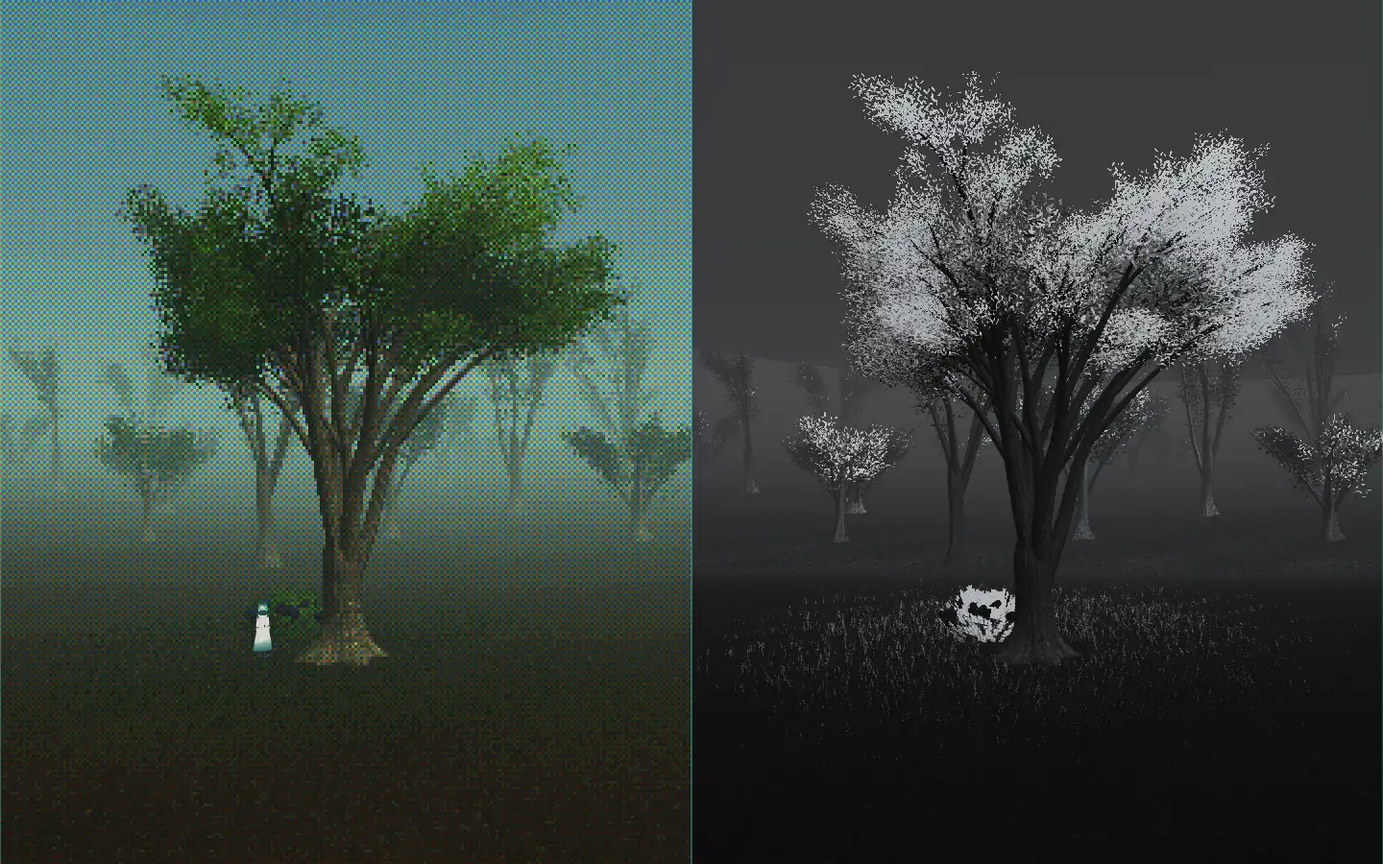
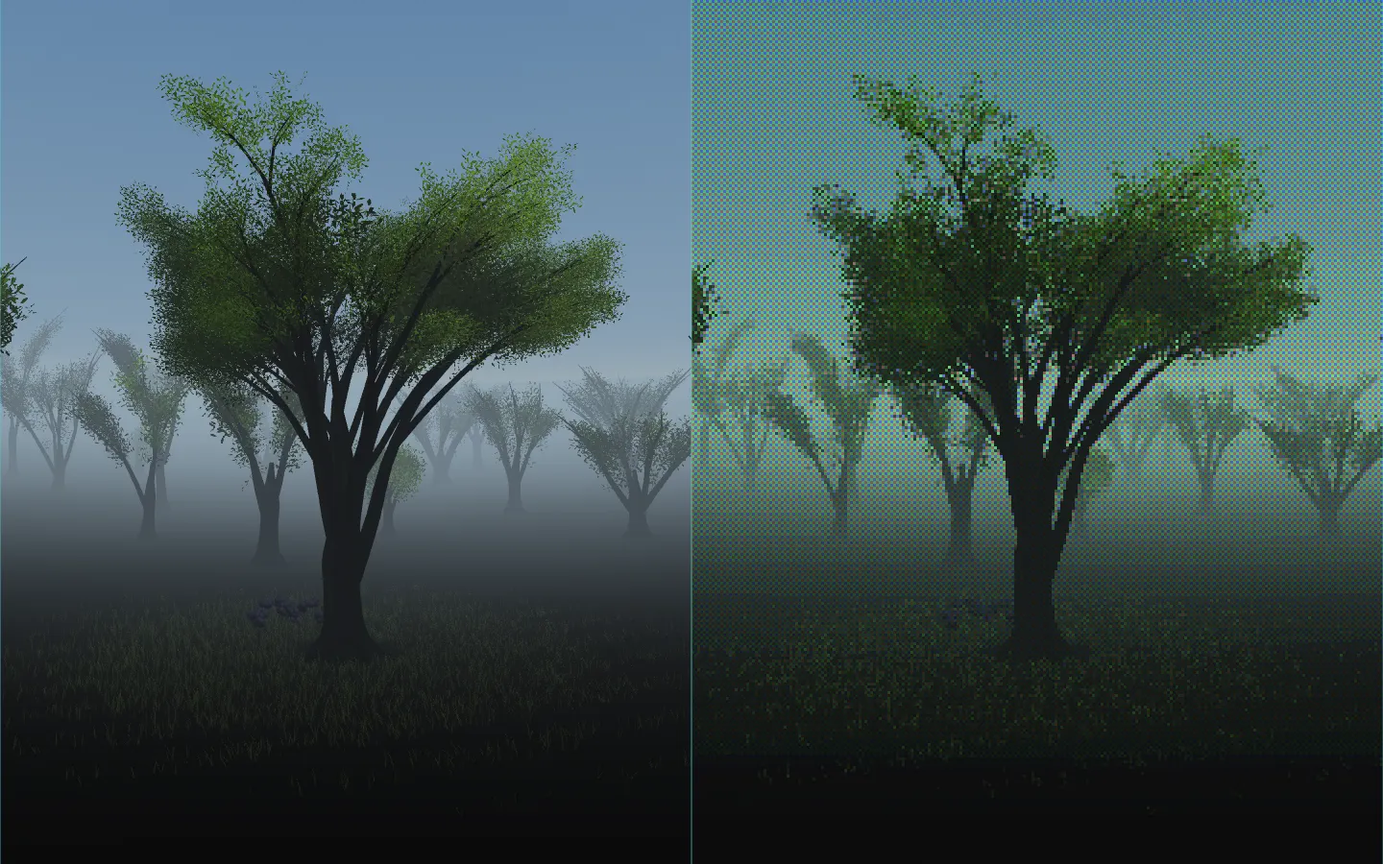
第4周 literature・leaf・keyaki・dream：leaf は目の前の一枚の接写から・人影をやめ副題をやさしく・計算の出典／literature の葉を強く・書誌を＋に／keyaki は人とカメラの二つから／dream は水際の光・しみこみ・押した所の反応・センサーの名札

diff --git a/x/27/app.js b/x/27/app.js
@@ -12,10 +12,10 @@ const [{ createAwai, injectCSS, lineMat, pointMat, fadeBy, AW, MOBILE, RM, TAU, 
 import * as THREE from "three";
 AMK.mods = Math.round(performance.now() - T0); injectCSS();
 const V3 = THREE.Vector3;
-const { qxEntry } = await import("./qx.js"); const GO = qxEntry({ label: "目の前の葉に触れる（葉が落ち、変化が広がる）", css: "#aw-ui .aw-mark{margin-left:40px!important}.aw-fold .fx{position:static!important;opacity:1!important;padding:0 0 10px!important;max-width:none!important}.aw-fold .fx summary{display:none}", onPress: () => { heroFall = 0; tapNode(nodeOf(goId)); } }); const _pv = new THREE.Vector3(); let goId = "tree";
+const { qxEntry } = await import("./qx.js"); const GO = qxEntry({ label: "目の前の葉に触れる（葉が落ち、変化が広がる）", css: "#aw-ui .aw-mark{margin-left:40px!important}.aw-fold .fx{position:static!important;opacity:1!important;padding:0 0 10px!important;max-width:none!important}.aw-fold .fx summary{display:none}", onPress: () => { document.body.classList.add("qx-started"); heroFall = 0; document.getElementById("qx-vig")?.classList.add("out"); tapNode(nodeOf(goId)); } }); const _pv = new THREE.Vector3(); let goId = "tree";
 
 const W = await createAwai({
-  title: "Qualia/leaf", sub: "一枚の葉から始まる入力の連なり", en: "One Leaf, Many Events", tex: P.tex, aoi: P.aoi, keyaki: P.keyaki, sprig: P.sprig, aoiAt: innerWidth < innerHeight * .8 ? [-.9, -1.5, -.2] : [1.4, -5.6, .1], seed: 2222, abs0: 0, deferBack: true,
+  title: "Qualia/leaf", sub: "一枚の葉が、次のだれかへ届く", en: "One Leaf, Many Events", tex: P.tex, aoi: P.aoi, keyaki: P.keyaki, sprig: P.sprig, aoiAt: innerWidth < innerHeight * .8 ? [-.9, -1.5, -.2] : [1.4, -5.6, .1], seed: 2222, abs0: 0, deferBack: true,
   rig: (a, y) => { const k = ss(0, 1, a), piv = new V3(0, 0, .4), back = lerp(6.4, 5.0, k), h = lerp(1.55, 1.7, k);   // 11-06 本人「俯瞰でなく主観の体験に」：抽象でも、その場に立つ人の目の高さ（約 1.6 m）のまま。一歩前へ出て、場の波を自分の足もとから受けとる   // 11-06 二版の後：抽象を一歩寄せる（主体が小さく、画面の下が空いていた）
     const pos = new V3(piv.x + Math.sin(y) * back, h, piv.z + Math.cos(y) * back), look = new V3(0, lerp(1.0, 0, k), lerp(-1.6, .2, k));
     if (innerWidth < innerHeight * .8) { const q = ss(.3, 1, a); pos.lerp(new V3(.1 + Math.sin(y) * 1.2, 1.75, 7.6), q); look.lerp(new V3(.1, .1, .4), q);   /* 縦長も目の高さのまま（真上から見下ろさない） */   /* 11-06 二版の後：主体を画面の中ほどへ下ろし、一歩寄せる（下半分が空いていた） */ }   // 縦長の画面の抽象は、真上に近い高い俯瞰（五つの主体が画面の内側に入る）
@@ -25,6 +25,7 @@ const W = await createAwai({
     "葉の表には落ちる前から菌や細菌がすみ、落ち葉は数か月から年の単位で分解されて土へ還る。ここでは時間を縮めた模式で、菌の音は実測音ではない合成音",
     "ミツバチの羽ばたき 約 230 回／秒：Altshuler ほか（PNAS 102, 2005）。歩く拍 毎分約 100 歩（中くらいの速さで歩くときの目安：Tudor-Locke ほか IJBNPA 16, 2019）",
     "考え方の系譜：ユクスキュル『生物から見た世界』（1934）・ウィーナー『サイバネティクス』（1948）・グラッセのスティグマジー（1959）・ハッチンス『Cognition in the Wild』（1995）。光る線は、ひとつの動きが次の入力になる順の模式",
+    "計算のかたち（右の線を上へなぞると出る式と流れ）の出典：環境に残した変化が次の行動の入力になる仕組み＝グラッセ「スティグマジー」（Insectes Sociaux 6: 41–80, 1959）、出力が入力へ戻る輪＝ウィーナー『サイバネティクス』（MIT Press, 1948）、道具と人のあいだで分かれて進む認知＝ハッチンス『Cognition in the Wild』（MIT Press, 1995）。式はこれらをもとに mitsulab が関係を書いた模式",
     "葉が落ちる時期：欅は秋に葉を黄から赤茶に変えて落とす落葉樹。画面の落ち方と時間は作品の設定（模式）",
     "質感：Poly Haven・ambientCG（CC0）。生き物の形：mitsulab の造形。碧の 3D・声・文：mitsulab",
   ],
@@ -46,7 +47,7 @@ if(accessAxis){accessAxis.tabIndex=0;accessAxis.setAttribute('role','slider');ac
 // 2026-11-09 第3周：最初の Tab・焦点は光るボタンへ
 setTimeout(() => { if (!GO.done) try { GO.el.focus({ preventScroll: true }); } catch (_) { } }, 50); scrollCaption.tabIndex = -1;
 
-{ const ax = W.ui.querySelector(".aw-axis"); if (ax) { const st = document.createElement("style"); st.textContent = ".aw-axis .aw-top,.aw-axis .aw-bot{opacity:0;transition:opacity .5s}.aw-axis.qx-on .aw-top,.aw-axis.qx-on .aw-bot,.aw-axis:focus-visible .aw-top,.aw-axis:focus-visible .aw-bot{opacity:1}"; document.head.appendChild(st); let tm; const on = () => { ax.classList.add("qx-on"); clearTimeout(tm); tm = setTimeout(() => ax.classList.remove("qx-on"), 2500); }; ax.addEventListener("pointerdown", on); ax.addEventListener("pointermove", e => { if (e.buttons) on(); }); } }   // 2026-11-09 第3周：目盛りの字は触れたときだけ
+{ const ax = W.ui.querySelector(".aw-axis"); if (ax) { ax.querySelector(".aw-top").textContent = "つながりの図"; ax.querySelector(".aw-bot").textContent = "いまの風景"; ax.title = "上へなぞると、同じつながりが図と式になる"; const st = document.createElement("style"); st.textContent = "body:not(.qx-started) .aw-axis{opacity:0!important;pointer-events:none!important}.aw-axis{transition:opacity .8s}.aw-axis .aw-top,.aw-axis .aw-bot{opacity:.9;transition:opacity .5s}.aw-axis.qx-on .aw-top,.aw-axis.qx-on .aw-bot,.aw-axis:focus-visible .aw-top,.aw-axis:focus-visible .aw-bot{opacity:1}"; document.head.appendChild(st); let tm; const on = () => { ax.classList.add("qx-on"); clearTimeout(tm); tm = setTimeout(() => ax.classList.remove("qx-on"), 2500); }; ax.addEventListener("pointerdown", on); ax.addEventListener("pointermove", e => { if (e.buttons) on(); }); } }   // 2026-11-09 第3周：目盛りの字は触れたときだけ
 const snd = S.createSound(W.sndBtn);
 W.onFirstInput(() => snd.start());
 // 2026-11-07: existing credits fold also offers an optional next question.
@@ -162,7 +163,7 @@ const chainM = new THREE.MeshBasicMaterial({ color: 0xffe2a8, transparent: true,
 let chainMesh = null, chainCurve = null, chainU = 0, chainV = 0;
 const buildChain = () => { chainCurve = new THREE.CatmullRomCurve3(chainPts(), false, "centripetal"); chainMesh = new THREE.Mesh(new THREE.TubeGeometry(chainCurve, 90, MOBILE ? .016 : .012, 5, false), chainM); W.add(chainMesh); };
 const chainDotM = pointMat(0xfff4d8, MOBILE ? .3 : .22, 1); chainDotM.opacity = 0; const chainDot = new THREE.Points(new THREE.BufferGeometry().setFromPoints([new V3()]), chainDotM); chainDot.visible = false; W.add(chainDot);
-const heroLeaf = PR.keyakiLeaf(.09); W.add(heroLeaf); const HERO0 = new V3(innerWidth < innerHeight * .8 ? .05 : .16, 1.45, 6.32); heroLeaf.position.copy(HERO0); let heroFall = -1;
+const heroLeaf = PR.keyakiLeaf(.09); const HS = innerWidth < innerHeight * .8 ? 2.3 : 2.9, _fw = new THREE.Vector3();   /* 2026-11-10 第4周：はじめは目の前の一枚を視界いっぱいに（literature の並木と分ける） */ W.add(heroLeaf); const HERO0 = new V3(innerWidth < innerHeight * .8 ? .05 : .16, 1.45, 6.32); heroLeaf.position.copy(HERO0); let heroFall = -1;
 const LEAF = { tit: "シジュウカラには、落ちる葉は動く影。目が向く。", hum: "人には、葉は十一月の色。黄から赤茶へ移る、季節のことば。", fungi: "菌と細菌には、葉は食べもの。落ちる前から、葉の表にすんでいた。" };
 const leafSaid = new Set(); let saidSens = false;
 // ノードの印：足もとの輪・立ちのぼる線・名札
@@ -250,7 +251,7 @@ function dropLeaf() { const l = PR.keyakiLeaf(.07); scene.add(l); falling = { l,
 
 // はじめと、降りるとき
 /* 2026-11-09 第3周：はじめは目の前の葉だけ（押すまで動かさない） */   // はじめに一度、ミツバチがふるまい、波が渡るのを見せる（音は触れるまで鳴らない）
-setTimeout(() => { W.say("目の前の一枚の葉に触れてみよう。落ちたあと、だれの何になる？"); setTimeout(() => { W.say("右の線を上へなぞると、同じつながりが式と流れになる。"); W.ui.querySelector(".aw-axis")?.classList.add("hint"); }, 7000); }, 900);
+setTimeout(() => { W.say("目の前の一枚の葉に触れてみよう。落ちたあと、だれの何になる？"); const axHint = () => { if (!GO.done) return setTimeout(axHint, 3000); document.body.classList.add("qx-started"); W.say("右の線を上へなぞると、同じつながりが図と式になる。"); W.ui.querySelector(".aw-axis")?.classList.add("hint"); }; setTimeout(axHint, 7000); }, 900);
 let saidDown = false, saidGround = false, wentUp = false;
 W.onAbs(a => {
   fx.style.opacity = ss(.35, .7, a).toFixed(3);
@@ -263,7 +264,7 @@ W.onAbs(a => {
 const tmpC = new THREE.Color();
 W.onFrame((dt, t, a) => {
   if (heroFall >= 0) { if (!chainMesh) buildChain(); chainV = Math.min(1, chainV + dt * .8); const v = (1 - ss(.25, .55, a)) * chainV; chainM.opacity = .5 * v; chainMesh.visible = v > .01; chainU = (chainU + dt * (RM ? 0 : .2)) % 1; chainDot.position.copy(chainCurve.getPointAt(chainU)); chainDotM.opacity = v; chainDot.visible = v > .01; }   // compute から：入力の連鎖の光る線
-  { const hv = RM ? 0 : 1; if (heroFall < 0) { heroLeaf.position.copy(HERO0).add(new V3(Math.sin(t * .7) * .012 * hv, Math.sin(t * .9) * .01 * hv, 0)); heroLeaf.lookAt(camera.position); heroLeaf.rotateX(Math.sin(t * .9) * .2 * hv); heroLeaf.rotateZ(.5 + Math.sin(t * .6) * .15 * hv); heroLeaf.material.emissive?.setRGB(.5, .3, .05); } else { heroFall += dt; const u = Math.min(1, heroFall / 2.2); heroLeaf.position.set(HERO0.x + Math.sin(heroFall * 3) * .08 * (1 - u), lerp(HERO0.y, .02, u * u), HERO0.z - u * .9); heroLeaf.rotation.set(-1.2 + Math.cos(heroFall * 3) * .8 * (1 - u), heroFall, 0); } heroLeaf.visible = a < .2; }
+  { const hv = RM ? 0 : 1; if (heroFall < 0) { camera.getWorldDirection(_fw); HERO0.copy(camera.position).addScaledVector(_fw, .34); HERO0.y -= .015; heroLeaf.scale.setScalar(HS); heroLeaf.position.copy(HERO0).add(new V3(Math.sin(t * .7) * .012 * hv, Math.sin(t * .9) * .01 * hv, 0)); heroLeaf.lookAt(camera.position); heroLeaf.rotateX(Math.sin(t * .9) * .2 * hv); heroLeaf.rotateZ(.5 + Math.sin(t * .6) * .15 * hv); heroLeaf.material.emissive?.setRGB(.5, .3, .05); } else { heroFall += dt; const u = Math.min(1, heroFall / 2.2); heroLeaf.scale.setScalar(lerp(HS, 1, Math.min(1, u * 2.5))); heroLeaf.position.set(HERO0.x + Math.sin(heroFall * 3) * .08 * (1 - u), lerp(HERO0.y, .02, u * u), HERO0.z - u * .9); heroLeaf.rotation.set(-1.2 + Math.cos(heroFall * 3) * .8 * (1 - u), heroFall, 0); } heroLeaf.visible = a < .2; }
   if (!GO.done) { goId = "tree"; _pv.copy(heroLeaf.position).project(camera); GO.place(_pv.z < 1 && Math.abs(_pv.x) < .95 && Math.abs(_pv.y) < .95 ? (_pv.x + 1) / 2 * innerWidth : null, (1 - _pv.y) / 2 * innerHeight); }
   ripU.uT.value = t;
   { const bi = Math.floor(t / .6); if (bi !== beatI) { beatI = bi; const fade = 1 - ss(.6, 1.3, t - lastAct); if (fade > .01 && snd.on) snd.wood(snd.note(-5 + (bi % 2)), { gain: .04 * fade, decay: .35, wet: .3 }); } }   // 静まったら 2 拍で消える   // 連なりの間、足音の拍（0.6 秒）を下で弱く
@@ -285,10 +286,10 @@ W.onFrame((dt, t, a) => {
   hop = Math.max(0, hop - dt * 1.6); tit.position.y = Math.sin(Math.min(1, 1 - hop) * Math.PI) * (hop > 0 ? .06 : 0); tit.userData.animate?.(t, false);
   beeKick = Math.max(0, beeKick - dt * .8); const hv = RM ? 0 : 1;
   beeGlow.position.copy(bee.position); beeGlowM.opacity = (.6 + .35 * Math.sin(t * 9)) * (1 - ss(.3, .7, a)) + beeKick * .6;
-  { const me = ss(.35, .6, a); person.visible = me < .98; person.userData.mat && (person.userData.mat.opacity = .85 * (1 - me)); person.userData.mat && (person.userData.mat.transparent = true); }   // 抽象では、見ている自分＝人の目から受けとる（自分の体の線は消える）
+  { const me = ss(.35, .6, a); person.visible = false; person.userData.mat && (person.userData.mat.opacity = .85 * (1 - me)); person.userData.mat && (person.userData.mat.transparent = true); }   // 抽象では、見ている自分＝人の目から受けとる（自分の体の線は消える）
   bee.position.copy(beeHome).add(new V3(Math.sin(t * .9) * (.05 + beeKick * .25) * hv, .045 + Math.sin(t * 1.7) * .015 * hv + beeKick * .12, Math.cos(t * .7) * (.04 + beeKick * .2) * hv)); bee.rotation.y = Math.sin(t * .5) * .8; bee.userData.state = "fly"; bee.userData.animate?.(t, "hover");
   if (steps > 0) { steps = Math.max(0, steps - dt); person.userData.walk((1.2 - steps) / .6, 1); } else person.userData.walk(0, 0);
-  person.userData.mat.opacity = lerp(.32, .6, ss(.08, .5, a));   // 具体では墨の線、抽象では光の線
+     // 具体では墨の線、抽象では光の線
   person.userData.mat.color.copy(tmpC.set(0xd9c3a5).lerp(new THREE.Color(0xe9d2c2), ss(.15, .6, a)));   // 具体では墨の線の人、抽象では光の線
   // 落ちる葉
   if (falling) { const f = falling; f.t += dt; const u = Math.min(1, f.t / 5); f.l.position.set(f.x + Math.sin(f.t * 3) * .25 * (1 - u), lerp(4.5, .02, Math.pow(u, 1.1)), f.z + Math.cos(f.t * 1.7) * .15); f.l.rotation.set(-1.3 + Math.cos(f.t * 3) * .9 * (1 - u), f.t, 0); if (u >= 1) { f.l.rotation.set(-Math.PI / 2, f.t, 0); falling = null; } }

diff --git a/x/29/index.html b/x/29/index.html
@@ -27,6 +27,7 @@ html,body{margin:0;height:100%;background:var(--bg);color:var(--ink);overflow:hi
 <script type="importmap">{"imports":{"three":"./vendor/three/build/three.module.js","three/addons/":"./vendor/three/examples/jsm/","@pixiv/three-vrm":"./vendor/three-vrm/three-vrm.module.min.js"}}</script>
 <link rel="modulepreload" href="./vendor/three/build/three.module.js"><link rel="modulepreload" href="./vendor/three/examples/jsm/controls/OrbitControls.js"><link rel="modulepreload" href="./keyaki.js"><link rel="modulepreload" href="./kit/index.js"><link rel="modulepreload" href="./kit/atmosphere.js"><link rel="modulepreload" href="./kit/vegetation.js"><link rel="modulepreload" href="./kit/layers.js"><link rel="modulepreload" href="./kit/aoi.js"><link rel="modulepreload" href="./kit/aoi_motion.js"><link rel="modulepreload" href="./kit/aoi_mocap.js"><link rel="modulepreload" href="./kit/aoi_robe.js"><link rel="modulepreload" href="./vendor/three/examples/jsm/utils/BufferGeometryUtils.js">
 <style id="question-route-style">.q-route{margin:12px 0;padding:12px 0;border-top:1px solid currentColor;font:13px/1.8 Inter,"Hiragino Sans",sans-serif;text-align:left}.q-route h2,.q-route h3{margin:0 0 8px;font-size:14px;font-weight:500;line-height:1.5}.q-route p{margin:4px 0 8px}.q-route a,.q-route button{min-height:44px;display:flex;align-items:center;color:inherit;background:none;border:0;border-bottom:1px solid #9ed9e64d;padding:4px 0;font:inherit;text-align:left;cursor:pointer;text-decoration:none;width:100%;box-sizing:border-box}.q-route a:focus-visible,.q-route button:focus-visible{outline:2px solid #b9f5ff;outline-offset:3px}.q-route small{display:block;opacity:.8}</style><style>.q-tree-route{position:fixed;z-index:20;right:max(12px,env(safe-area-inset-right));top:calc(64px + env(safe-area-inset-top));color:#dae8ee;max-width:min(340px,calc(100vw - 24px));font:13px/1.8 sans-serif}.q-tree-route>summary{width:max-content;min-width:44px;height:44px;padding:0 12px;box-sizing:border-box;display:grid;place-items:center;list-style:none;cursor:pointer;background:#08111ac9;border-radius:50%;margin-left:auto;border:1px solid #a8f2f63d}.q-tree-route>summary::-webkit-details-marker{display:none}.q-evidence>summary{min-height:44px;display:flex;align-items:center;cursor:pointer;border-top:1px solid #9ed9e64d}.q-evidence a{font-size:12px}.q-tree-route[open] .q-route{background:#08111aed;border:1px solid #a8f2f633;border-radius:8px;padding:16px;max-height:calc(100dvh - 164px);overflow:auto;margin:6px 0 0}.q-tree-route>summary:focus-visible{outline:2px solid #b9f5ff;outline-offset:3px}</style><style id="zoom-layout-20261107">
+#who:not(.all) button:not([data-k="0"]):not([data-k="4"]){display:none}#journey[data-stage="observe"] #journey-step{display:none}
 /* Keep captions and every selector in flow when text or the viewport grows narrow. */
 body{display:grid;grid-template-rows:minmax(128px,1fr) auto auto auto;justify-items:center;overflow-y:auto}
 #tags{grid-row:1}
@@ -62,12 +63,12 @@ body{display:grid;grid-template-rows:minmax(128px,1fr) auto auto auto;justify-it
 <div id="tags"></div><div id="journey" data-stage="observe"><p id="journey-step">まず見る</p><button id="journey-next" type="button">生き物の目と並べる →</button><details id="question-route" class="q-tree-route"><summary aria-label="身近な木への問いと根拠">＋ 問いと根拠</summary><section class="q-route"><h2>画面を閉じて、身近な木へ。</h2><ol class="q-return"><li>まず、目に入るものを一つ。葉・幹・根もとのどこでしょう。</li><li>立つ位置を少し変えて、光と影を見てみる。</li><li>最初の位置でもう一度。気になったところは変わりましたか。</li></ol><p>見えたことと、想像したことは分けておきましょう。色だけでは、その木の紫外の反射や土の水分まではわかりません。</p><button id="journey-restart" type="button">画面の木でもう一度</button><details class="q-evidence"><summary>見え方の根拠と限界</summary><p>色・光・数値は、人に見えるように置き換えた模式です。生き物の主観や、この場所の紫外画像・土壌水分を実測したものではありません。</p><p>ハチの受容体：紫外・青・緑を手がかりにしています。<a href="https://pubmed.ncbi.nlm.nih.gov/1573568/" target="_blank" rel="noopener">Peitschほか（1992）↗</a></p><p>鳥の紫外感度は種で異なります。ここで描くヒヨドリの型は未確認です。<a href="https://pmc.ncbi.nlm.nih.gov/articles/PMC3637589/" target="_blank" rel="noopener">Ödeen・Håstad（2013）↗</a></p><p>紫外の描き方：ミツバチは 緑→赤・青→緑・紫外→青 にずらし、ぼかしは個眼の間の角度 約 1〜2 度の模式です。鳥は紫外を紫で重ねた模式で、紫外写真ではありません。</p><p>土のしめり気の数は、お話の例です。</p><p>カメラの格子はベイヤー配列の模式、近赤外の明るさは葉の反射の測定（Gates ほか 1965, Applied Optics 4(1):11–20）を手がかりにした模式です。</p><p>土の水分を誘電率から推定する方法があります。画面の深さと数値は作者の設定で、深いほど必ず湿るとは限りません。<a href="https://doi.org/10.1029/WR016i003p00574" target="_blank" rel="noopener">Toppほか（1980）↗</a></p></details><a href="https://mitsulab.jp/#apps">作品の一覧へ →</a></section></details></div>
 <p id="cap" aria-live="polite"></p>
 <nav id="who" aria-label="補助操作：受けとり方を並べて比較。押すたび追加・解除">
-  <button data-k="0" aria-pressed="false"><svg viewBox="0 0 24 24"><circle cx="12" cy="7" r="3"/><path d="M6 21c0-4 2.7-7 6-7s6 3 6 7"/></svg>人</button>
+  <button data-k="0" aria-pressed="true"><svg viewBox="0 0 24 24"><circle cx="12" cy="7" r="3"/><path d="M6 21c0-4 2.7-7 6-7s6 3 6 7"/></svg>人</button>
   <button data-k="1" aria-pressed="false"><svg viewBox="0 0 24 24"><ellipse cx="12" cy="14" rx="3.2" ry="5"/><path d="M9 11c-4-3-6-1-5 1s4 1 5 0M15 11c4-3 6-1 5 1s-4 1-5 0M10.5 5.5 9 3M13.5 5.5 15 3"/></svg>ミツバチ</button>
   <button data-k="2" aria-pressed="false"><svg viewBox="0 0 24 24"><path d="M4 14c3-5 9-7 13-5l3-1-1.5 3c0 4-4 7-9 7H4l3-2z"/><circle cx="15.5" cy="10.5" r=".6"/></svg>ヒヨドリ</button>
   <button data-k="3" aria-pressed="false"><svg viewBox="0 0 24 24"><rect x="9" y="3" width="6" height="8" rx="1"/><path d="M10.5 11v9M13.5 11v9M4 15h16"/></svg>センサー</button>
   <button data-k="4" aria-pressed="true"><svg viewBox="0 0 24 24"><rect x="3" y="7" width="18" height="12" rx="2"/><circle cx="12" cy="13" r="3.5"/><path d="M8 7l1.5-3h5L16 7"/></svg>カメラ</button>
-  <button data-k="5" aria-pressed="true"><svg viewBox="0 0 24 24"><rect x="3" y="7" width="18" height="12" rx="2"/><circle cx="12" cy="13" r="3.5"/><path d="M12 2v3M7 3.5l1 2M17 3.5l-1 2"/></svg>近赤外</button>
+  <button data-k="5" aria-pressed="false"><svg viewBox="0 0 24 24"><rect x="3" y="7" width="18" height="12" rx="2"/><circle cx="12" cy="13" r="3.5"/><path d="M12 2v3M7 3.5l1 2M17 3.5l-1 2"/></svg>近赤外</button>
 </nav>
 <script type="module">
 import * as THREE from "three";
@@ -204,19 +205,19 @@ function sizeRT() { renderer.getDrawingBufferSize(dbs); if (rt.width !== dbs.x |
 
 // ---- 主体・碧の字幕（事実は 資料/出典.md）
 const WHO = [
-  { n: "人", m: "人の目で見た色", say: "まずは、この一本を。葉・幹・根もと、どこに目が向きますか。画面をなぞると、見る位置を変えられます。" },
-  { n: "ミツバチ", m: "人には見えない色を、\n見える色に置きかえたよ", say: "ミツバチは紫外・青・緑で受けとり、赤は届きにくいとされます。その三つを、人に見える青・緑・赤へずらした模式です。ぼかしは目の粗さ（個眼の間の角度 約 1〜2 度）の模式です。" },
-  { n: "ヒヨドリ", m: "鳥に見える紫外を、\n見える色に置きかえたよ", say: "鳥の色覚には、人にはない紫外から紫の感度をもつ型があります。この画面は鳥の色覚研究を手がかりにした模式で、ヒヨドリの感度を測ったものではありません。紫の重ね合わせも紫外写真ではなく、色の受けとり方を考えるための表現です。鳥の型の分布は Ödeen & Håstad 2013（BMC Evolutionary Biology 13:36）にまとめられていますが、ヒヨドリの型はまだ確かめられていません。" },
-  { n: "土のセンサー", m: "土の水分（%）\n値は模式", say: "センサーは画を記録しません。根もと近くと離れた所の 2 か所に差し、土の水分を、深さごとに体積の % で記録するだけです（値は模式）。薄い線は木の位置の目安です。" },
-  { n: "カメラ", m: "画素と色の並び\n機械が記録する", say: "カメラは画を、画素の格子として記録します。一つの画素は赤・緑・青のどれか一色だけを記録し、あとで計算で色をそろえます（ベイヤー配列の模式）。人に見える細部の一部は、格子の外に落ちます。" },
-  { n: "近赤外", m: "人に見えない光\n値は模式", say: "近赤外は人の目では見えない光です。葉は近赤外を強く返すので、近赤外のカメラには樹冠が明るく、空は暗く記録されます（模式）。葉が赤の先で急に明るくなる境目はレッドエッジと呼ばれます（Gates ほか 1965, Applied Optics 4(1):11–20 の葉の反射の測定）。" } ];
-const SAY_FIRST = "カメラが記録した同じ欅。左は画素の格子、右は人に見えない近赤外の光。次は、生き物の目と並べてみよう。";
-const INIT = [4, 5];
+  { n: "人", m: "人の目の色", say: "まずは、この一本を。葉・幹・根もと、どこに目が向きますか。画面をなぞると、見る位置を変えられます。" },
+  { n: "ミツバチ", m: "紫外が見える\n色は置きかえ", say: "ミツバチは紫外・青・緑で受けとります（Peitsch ほか 1992, J. Comp. Physiol. A 170）。それを人に見える青・緑・赤へずらし、目の粗さ（Land 1997, Annu. Rev. Entomol. 42）をぼかしで表した模式です。" },
+  { n: "ヒヨドリ", m: "紫外が見える型\n色は置きかえ", say: "鳥には、人にない紫外の感度をもつ型があります（Ödeen & Håstad 2013, BMC Evol. Biol. 13:36）。ヒヨドリの型はまだ確かめられていないので、これは模式です。" },
+  { n: "土のセンサー", m: "土の水分\n値は模式", say: "センサーは画を記録しません。根もと近くと離れた所で、土の水分を深さごとに記録するだけです（値は模式）。" },
+  { n: "カメラ", m: "画素の格子", say: "カメラの一つの画素は、赤・緑・青のどれか一色だけを記録し、あとで計算で色をそろえます（ベイヤー配列の模式）。細部の一部は格子の外に落ちます。" },
+  { n: "近赤外", m: "見えない光\n値は模式", say: "葉は人に見えない近赤外の光を強く返すので、近赤外のカメラには樹冠が明るく写ります（Gates ほか 1965, Applied Optics 4:11–20）。値は模式です。" } ];
+const SAY_FIRST = "左は人の目、右はカメラの記録。同じ一本の欅だよ。";
+const INIT = [0, 4];   /* 2026-11-10 第4周：はじめは二つだけ（人とカメラ）。ほかの目は次の一押しで出る */
 const SAY_MANY = "帯ごとに、同じ一本のケヤキを、それぞれの受けとり方で。あなたの帯も、その一つ。";
 const SAY_END = "別の手がかりに触れたあと、人の目でもう一度。同じ木の、どこが気になりますか。";
 const SAY_REVISIT = "人の目に戻りました。最初と比べて、目が向くところは変わりましたか。見えない手がかりも、この木のまわりにあります。";
-let order = [4, 5];   // 2026-11-09 第3周：入口は機械の記録（カメラの画素と近赤外）が主役
-const w = [0, 0, 0, 0, 1, 1];   // 帯の幅（なめらかに）
+let order = [0, 4];   // 2026-11-09 第3周：入口は機械の記録（カメラの画素と近赤外）が主役
+const w = [1, 0, 0, 0, 1, 0];   // 帯の幅（なめらかに）
 const btns = [...document.querySelectorAll("#who button")];
 const tagsEl = document.getElementById("tags"), tags = WHO.map((x, i) => { const d = document.createElement("div"); d.style.setProperty("--c", ["#eef5fb", "#8f8cff", "#d2a6ff", "#78d6ec", "#9fd0b6", "#e8e8e8"][i]); d.className = "tag"; d.innerHTML = x.n + (x.m ? `<i>${x.m}</i>` : ""); d.style.opacity = 0; tagsEl.appendChild(d); return d; });
 const cap = document.getElementById("cap");
@@ -241,7 +242,7 @@ nextButton.addEventListener("click", () => {
   if (journey.dataset.stage === "revisit") {
     route.open = true; route.querySelector("summary").focus(); return;
   }
-  if (journey.dataset.stage === "observe") { order = [0, 1, 2]; say("人・ミツバチ・ヒヨドリの目の模式で、同じ一本を。ハチは赤が届きにくく、鳥には紫外が見える型があります。", SAY_END); }
+  if (journey.dataset.stage === "observe") { document.getElementById("who").classList.add("all"); order = [0, 1, 2]; say("人・ミツバチ・ヒヨドリの目の模式で、同じ一本を。ハチは赤が届きにくく、鳥には紫外が見える型があります。", SAY_END); }
   else { order = [0]; say(SAY_REVISIT); }
   syncJourney();
 });

diff --git a/x/30/field.js b/x/30/field.js
@@ -75,7 +75,7 @@ if(!mobile){sun.castShadow=true;sun.shadow.mapSize.set(1024,1024);Object.assign(
 const L=new T.TextureLoader(),tex=(n,r,col)=>{const t=L.load('assets/'+n);t.wrapS=t.wrapT=T.RepeatWrapping;t.repeat.set(r,r);if(col)t.colorSpace=T.SRGBColorSpace;t.anisotropy=4;return t;};
 // 場の状態を地面へ：湿り→暗く・艶、踏み跡→わずかに明るく締まる
 const fieldTex=new T.DataTexture(new Uint8Array(NN*4),N,N,T.RGBAFormat);fieldTex.magFilter=fieldTex.minFilter=T.LinearFilter;fieldTex.needsUpdate=true;
-const gMat=new T.MeshStandardMaterial({map:tex('soil_c.webp',30,1),normalMap:tex('soil_n.webp',30),roughness:.95,color:0xd8cfb4});
+const gMat=new T.MeshStandardMaterial({map:tex('soil_c.webp',30,1),normalMap:tex('soil_n.webp',30),roughness:.95,color:0xaeac98});   /* 2026-11-10 第4周：枯れ色を抑え、湿った土の落ち着いた色に */
 gMat.onBeforeCompile=sh=>{sh.uniforms.uField={value:fieldTex};sh.uniforms.uPulse={value:0};sh.uniforms.uSky={value:scene.fog.color};sh.uniforms.uRad={value:0};gMat.userData.u=sh.uniforms;
   sh.vertexShader=sh.vertexShader.replace('#include <common>','#include <common>\nvarying vec2 vF;varying vec3 vWp;').replace('#include <worldpos_vertex>','#include <worldpos_vertex>\nvec4 wpF=modelMatrix*vec4(transformed,1.);vWp=wpF.xyz;vF=(wpF.xz+'+H.toFixed(1)+')/'+SIZE.toFixed(1)+';');
   sh.fragmentShader=sh.fragmentShader.replace('#include <common>','#include <common>\nvarying vec2 vF;varying vec3 vWp;uniform vec3 uSky;uniform sampler2D uField;uniform float uPulse,uRad;float fWet,rg;')
@@ -140,13 +140,18 @@ function updateOthers(now,dt){
 }
 // ---------- 身体と操作 ----------
 let yaw=Math.atan2(-(TREE.x-me.x),-(TREE.z-me.z))+.5,pitch=-.06,target=null,moving=false,reduce=matchMedia('(prefers-reduced-motion: reduce)').matches;
-const goP={x:me.x-Math.sin(yaw)*3.4,z:me.z-Math.cos(yaw)*3.4},goV=new T.Vector3();const GO=qxEntry({label:'ここへ歩く（足もとの変化が見える）',css:'#t{left:54px!important}',onPress:()=>{target={x:goP.x,z:goP.z};$('hint').style.opacity=0;}});
+/* 2026-11-10 第4周：最初に見せる一つ＝水際の光。押すとそこへ歩き、着く前から足もとの土に水がしみこむ */
+const goP=(()=>{const dx=me.x-POND.x,dz=me.z-POND.z,l=Math.hypot(dx,dz),r=pondR()+.7;return{x:POND.x+dx/l*r,z:POND.z+dz/l*r};})(),goV=new T.Vector3();
+const edgeM=new T.SpriteMaterial({map:dotTex(),color:0xfff3c8,transparent:true,depthWrite:false,blending:T.AdditiveBlending,opacity:0});const edgeGlow=new T.Sprite(edgeM);edgeGlow.scale.set(1.1,1.1,1);edgeGlow.position.set(goP.x,.12,goP.z);_add(edgeGlow);let edgeOn=1;
+function splash(x,z,a=.8){const k0=idx(x,z);if(k0<0)return;for(let dj=-2;dj<=2;dj++)for(let di=-2;di<=2;di++){const kk=k0+dj*N+di;if(kk<0||kk>=NN)continue;const f=1-Math.hypot(di,dj)/3.2;if(f<=0)continue;w[kk]=Math.min(1,w[kk]+a*f);d[kk]=Math.min(2,d[kk]+1.4*f);}}
+const probeTag=document.createElement('div');probeTag.textContent='土の湿りを測る棒（センサー）';probeTag.setAttribute('aria-hidden','true');probeTag.style.cssText='position:fixed;left:0;top:0;pointer-events:none;font-size:11px;letter-spacing:.06em;white-space:nowrap;text-shadow:0 1px 3px #000,0 0 10px #000a;transform:translate(-50%,-140%);opacity:0;transition:opacity .6s';document.body.appendChild(probeTag);const prV=new T.Vector3();
+setTimeout(()=>{splash(goP.x,goP.z,.9);},1200);const GO=qxEntry({label:'ここへ歩く（足もとの変化が見える）',css:'#t{left:54px!important}',onPress:()=>{target={x:goP.x,z:goP.z};splash(goP.x,goP.z,.7);$('hint').style.opacity=0;}});
 const ray=new T.Raycaster(),ndc=new T.Vector2();let down=null;
 /* 2026-11-09 第3周：押した所に輪を一つ（どこへ行くかが分かる） */const tapRing=new T.Mesh(new T.RingGeometry(.42,.5,40).rotateX(-Math.PI/2),new T.MeshBasicMaterial({color:0xf6f0d6,transparent:true,opacity:0,depthWrite:false,toneMapped:false}));tapRing.visible=false;tapRing.renderOrder=5;scene.add(tapRing);
 const cv=$('w');
 cv.addEventListener('pointerdown',e=>{down={x:e.clientX,y:e.clientY,yaw,pitch,moved:false};cv.setPointerCapture(e.pointerId);});
 cv.addEventListener('pointermove',e=>{if(!down)return;const dx=e.clientX-down.x,dy=e.clientY-down.y;if(Math.hypot(dx,dy)>6)down.moved=true;if(down.moved){yaw=down.yaw+dx*.005;pitch=Math.max(-.7,Math.min(.5,down.pitch+dy*.004));}});
-cv.addEventListener('pointerup',e=>{if(down&&!down.moved){GO.end();ndc.set(e.clientX/innerWidth*2-1,-(e.clientY/innerHeight)*2+1);ray.setFromCamera(ndc,cam);const h=ray.intersectObject(ground)[0];if(h){target={x:Math.max(-11,Math.min(11,h.point.x)),z:Math.max(-11,Math.min(11,h.point.z))};tapRing.position.set(target.x,h.point.y+.03,target.z);tapRing.userData.t=0;tapRing.visible=true;}$('hint').style.opacity=0;}down=null;});
+cv.addEventListener('pointerup',e=>{if(down&&!down.moved){GO.end();ndc.set(e.clientX/innerWidth*2-1,-(e.clientY/innerHeight)*2+1);ray.setFromCamera(ndc,cam);const h=ray.intersectObject(ground)[0];if(h){target={x:Math.max(-11,Math.min(11,h.point.x)),z:Math.max(-11,Math.min(11,h.point.z))};tapRing.position.set(target.x,h.point.y+.03,target.z);tapRing.userData.t=0;tapRing.visible=true;splash(target.x,target.z,.6);}$('hint').style.opacity=0;}down=null;});
 const keys={};addEventListener('keydown',e=>{keys[e.key.toLowerCase()]=1;});addEventListener('keyup',e=>{keys[e.key.toLowerCase()]=0;});
 function walk(dt){let vx=0,vz=0;const f=(keys.w||keys.arrowup?1:0)-(keys.s||keys.arrowdown?1:0),sd=(keys.d?1:0)-(keys.a?1:0);
   if(keys.arrowleft)yaw+=dt*1.2;if(keys.arrowright)yaw-=dt*1.2;
@@ -172,7 +177,7 @@ function sound(){if(!A||!A.on)return;const t=A.ac.currentTime;if(field.pulse>.98
   A.g2.gain.setTargetAtTime(field.sap*near*.025*att,t,.6);A.o2.frequency.setTargetAtTime(165+field.sap*60,t,.8);}       // 樹の吸い上げ（近いほど）
 
 // ---------- 毎フレーム ----------
-const fog=new T.Color(),dry=new T.Color(0xc6d4d6),wet=new T.Color(0xaab8ba),dropC=new T.Color(),tmpV=new T.Vector3();
+const fog=new T.Color(),dry=new T.Color(0xc4d6dc),wet=new T.Color(0xa9bcc0),dropC=new T.Color(),tmpV=new T.Vector3();
 let last=performance.now(),acc=0,ready=false,ringI=0,ringAcc=0,frames=0;
 function frame(now){const dt=Math.max(0,Math.min(.05,(now-last)/1000));last=now;frames++;if(tapRing.visible){const u=(tapRing.userData.t+=dt)/1.1;tapRing.scale.setScalar(.4+u*1.4);tapRing.material.opacity=.85*(1-u);if(u>=1)tapRing.visible=false;}
   acc+=dt;while(acc>=.1){step(.1);acc-=.1;}
@@ -181,6 +186,8 @@ function frame(now){const dt=Math.max(0,Math.min(.05,(now-last)/1000));last=now;
   const bob=reduce?0:(moving?Math.sin(now*.009)*.025:0);cam.position.set(me.x,1.55+bob,me.z);
   cam.rotation.set(0,0,0);cam.rotateY(yaw);cam.rotateX(pitch);
   if(!GO.done){cam.updateMatrixWorld();goV.set(goP.x,.05,goP.z).project(cam);GO.place(goV.z<1&&Math.abs(goV.x)<.9&&Math.abs(goV.y)<.9?(goV.x+1)/2*innerWidth:null,(1-goV.y)/2*innerHeight);}
+  {const dE=Math.hypot(me.x-goP.x,me.z-goP.z);if(edgeOn&&dE<1.2)edgeOn=0;const k=edgeOn?.75+.25*(reduce?0:Math.sin(now*.003)):0;edgeM.opacity+=(k-edgeM.opacity)*Math.min(1,dt*3);edgeGlow.visible=edgeM.opacity>.01;}
+  {prV.set(PROBE.x,.85,PROBE.z).project(cam);const dP=Math.hypot(me.x-PROBE.x,me.z-PROBE.z),on=prV.z<1&&Math.abs(prV.x)<.9&&Math.abs(prV.y)<.9&&dP<7;probeTag.style.opacity=on?.9:0;if(on)probeTag.style.left=((prV.x+1)/2*innerWidth|0)+'px',probeTag.style.top=((1-prV.y)/2*innerHeight|0)+'px';}
   // 空気 → 霧と光
   fog.copy(dry).lerp(wet,field.air);scene.fog.color.copy(fog);scene.background.copy(fog);scene.fog.density=(.012+.022*field.air)*(1-.35*field.pulse);
   sun.intensity=2.5-1.0*field.air;

diff --git a/x/21/app.js b/x/21/app.js
@@ -34,6 +34,7 @@ const W = await createAwai({
     "葉の表には落ちる前から菌や細菌がすむ。歩く拍 毎分約 100 歩（中くらいの速さで歩くときの目安：Tudor-Locke ほか IJBNPA 16, 2019）",
     "気温計の層：10 分ごとの記録を 2.4 秒に縮めた模式（気象庁のアメダスは 10 分ごとに観測する）。数値は描かない",
     "菌の営みを、ゆっくり重なる合成音で表した創作です。実測した菌の音ではありません。鳥の声も合成音です（実際の鳴き声の録音ではありません）",
+    "書誌：葉の形＝『日本の野生植物 木本 I』（平凡社, 1989）／葉にすむ菌と細菌＝Vorholt, J. A.（2012）Nature Reviews Microbiology 10: 828–840、Osono, T.（2006）Canadian Journal of Microbiology 52: 701–716／小鳥の目の速さ＝Boström, J. E. ほか（2016）PLoS ONE 11(3): e0151099（アオガラなどで測った値をシジュウカラに当てはめた模式）／気温の記録＝気象庁「アメダス」（10 分ごとの観測）",
     "質感：Poly Haven・ambientCG（CC0）。生き物の形：mitsulab の造形。碧の 3D・声・文：mitsulab",
   ],
 });
@@ -50,7 +51,7 @@ const leaf = PR.keyakiLeaf(.09); W.add(leaf);
 const tw0 = W.near.map(t => { const p = t.wood[0].attributes.position; return new V3(p.getX(0), 0, p.getZ(0)); }).filter(v => v.x > 0).sort((a, b) => Math.abs(a.z - 1) - Math.abs(b.z - 1))[0] || new V3(5.6, 0, 1);
 AIR.set(W.pathX(3) + .8, 2.7, 3); LAND.set(W.pathX(AIR.z + .7) + .7, .022, AIR.z + .7); leafP.copy(AIR);   // 右の欅の張り出した枝の先。葉は風に流されて参道の上に落ちる
 const twig = new THREE.Group(); W.add(twig);
-const halo = new THREE.Points(new THREE.BufferGeometry().setFromPoints([new V3()]), pointMat(0xffe2a0, MOBILE ? .26 : .22, .6)); W.add(halo);   // 宙の葉の後ろの、光の暈（目を引く一点）
+const halo = new THREE.Points(new THREE.BufferGeometry().setFromPoints([new V3()]), pointMat(0xffe2a0, MOBILE ? .4 : .34, .6)); W.add(halo);   // 宙の葉の後ろの、光の暈（目を引く一点）
 let twigPal = null; const twigMat = base => { twigPal ||= [[1.02, .84, .5], [.98, .7, .45], [.86, 1.0, .62]].map(([r, g, b2]) => { const m = base.clone(); m.onBeforeCompile = base.onBeforeCompile; m.customProgramCacheKey = base.customProgramCacheKey; m.color.setRGB(r, g, b2); return m; }); return twigPal[Math.floor(R() * 3)]; };   /* 房の葉の色は三つ（黄・橙・まだ緑）。材質を分けすぎない＝描画の回数 */
 { const VG = await import(P.kit + "vegetation.js");
   const pts = [tw0.clone().setY(AIR.y + .75).lerp(AIR.clone().add(new V3(2.8, .75, -1.3)), .15),   // 根もとは右の欅の幹の中から（枝が宙に浮かない）
@@ -135,7 +136,7 @@ const LINES = [
 ];
 
 // ───────── 進み方
-function tapLeaf() {
+function tapLeaf() { document.body.classList.add("qx-started");   /* 2026-11-10 第4周：はじめに押せるのは葉だけ。右の線は葉に触れてから出す */
   snd.start(); GO.end();
   if (ST.phase === 0) { ST.phase = 1; ST.t = 0; path.length = 0; petiole.visible = false; leaf.material.emissive?.setRGB(0, 0, 0); W.sayNow("葉が、枝をはなれる。"); snd.wood(snd.note(10), { gain: .14, decay: .5 }); return; }
   if (ST.phase === 3 && ST.later > 2) restart();
@@ -156,7 +157,7 @@ litGuide.textContent = "キーボードは Tab で風景へ。" + litHelp.textCo
 const KB = matchMedia("(hover:hover) and (pointer:fine)").matches;   // 2026-11-09 スマホではキーボードの説明を出さない
 if (KB) W.ui.querySelector(".aw-fold > div").appendChild(litGuide); else litHelp.hidden = true;
 // 2026-11-09「抽象／具体」の目盛りの字は、触れているあいだ（と動いているあいだ）だけ出す
-{ const ax = W.ui.querySelector(".aw-axis"); if (ax) { const st = document.createElement("style"); st.textContent = ".aw-axis .aw-top,.aw-axis .aw-bot{opacity:0;transition:opacity .5s}.aw-axis.qx-on .aw-top,.aw-axis.qx-on .aw-bot,.aw-axis:focus-visible .aw-top,.aw-axis:focus-visible .aw-bot{opacity:1}"; document.head.appendChild(st);
+{ const ax = W.ui.querySelector(".aw-axis"); if (ax) { ax.querySelector(".aw-top").textContent = "つながりの図"; ax.querySelector(".aw-bot").textContent = "いまの風景"; ax.title = "上へなぞると、同じ葉を受けとる層が重なる"; const st = document.createElement("style"); st.textContent = "body:not(.qx-started) .aw-axis{opacity:0!important;pointer-events:none!important}.aw-axis{transition:opacity .8s}.aw-axis .aw-top,.aw-axis .aw-bot{opacity:.9;transition:opacity .5s}.aw-axis.qx-on .aw-top,.aw-axis.qx-on .aw-bot,.aw-axis:focus-visible .aw-top,.aw-axis:focus-visible .aw-bot{opacity:1}"; document.head.appendChild(st);
   let last = W.abs, tOff = 0; const on = () => { ax.classList.add("qx-on"); clearTimeout(tOff); tOff = setTimeout(() => ax.classList.remove("qx-on"), 1800); };
   ax.addEventListener("pointerdown", on); ax.addEventListener("pointerenter", on); setInterval(() => { if (Math.abs(W.abs - last) > .004) on(); last = W.abs; }, 150); } }
 const litStyle = document.createElement("style");
@@ -199,7 +200,7 @@ W.onFrame((dt, t, a) => {
   if (ST.phase === 0) {
     const s = RM ? 0 : 1; leafP.copy(AIR); halo.visible = true; twig.rotation.z = Math.sin(t * .8) * .012 * s;   // 枝ごと風にゆれる（葉柄で枝につく）
     leaf.lookAt(camera.position); leaf.rotateX(Math.sin(t * .9) * .25 * s); leaf.rotateZ(Math.sin(t * .6) * .25 * s);   /* 宙の葉は面をこちらへ向け、少しだけ揺れる（真横の細い線に見えない） */
-    leaf.material.emissive?.setRGB(.6 + .14 * Math.sin(t * 2), .36 + .07 * Math.sin(t * 2), .06);   /* 朝の斜めの光が葉を透かす（逆光の明るみ） */ halo.position.copy(leafP); halo.material.opacity = .6 + .12 * Math.sin(t * 2);   // 主役の葉だけ少し明るく、ゆっくり揺れる
+    leaf.material.emissive?.setRGB(.85 + .2 * Math.sin(t * 2), .52 + .1 * Math.sin(t * 2), .1);   /* 朝の斜めの光が葉を透かす（逆光の明るみ） */ halo.position.copy(leafP); halo.material.opacity = .85 + .15 * Math.sin(t * 2);   // 主役の葉だけ少し明るく、ゆっくり揺れる
     airT -= dt; if (airT < 0) { airT = 4.2; snd.breath(2.6, { f0: 650, f1: 900, gain: .08, wet: .7, pan: (Math.random() < .5 ? -1 : 1) * (.5 + Math.random() * .4) }); }
   } else if (ST.phase === 1) { halo.visible = false;
     const u = clamp(ST.t / 6, 0, 1), e = u * u * (3 - 2 * u);

diff --git a/x/30/index.html b/x/30/index.html
@@ -19,12 +19,12 @@ canvas{display:block;width:100vw;height:100dvh;touch-action:none;cursor:crosshai
 </style></head><body>
 <canvas id="w" aria-label="水際の場の3D。押した所へ歩く。ドラッグで見回す。"></canvas>
 <div id="t">Qualia/dream<small>水際 ── 雨が土にしみて、木と空気までつながる</small></div>
-<div id="hint">碧：雨の水際を歩いてみよう。押した所まで行くと、足もとの土に水がしみこむ様子が灯るよ。</div>
+<div id="hint">碧：光っている水際へ行ってみよう。押した所の土に、水がしみこむよ。</div>
 <div id="ui"><button id="bSnd" type="button" aria-pressed="false">♪ 聴く</button><button id="bMot" type="button" aria-pressed="false">動き控えめ</button><button id="bSrc" type="button" aria-pressed="false" aria-controls="src">どこから来た話？</button></div>
 <div id="src" role="dialog" aria-label="どこから来た話？（出典と記録）"><h2>この場について（模式）</h2>
 <p>雨・地表の水・土の湿り・根の吸い上げ・樹・空気は、ひとつの連続した状態として互いを変えています。光・見通し・揺れ・音は、すべて同じ状態から作っています。</p>
 <p>中身はすべて<b>創作モデル</b>です（観測・実測の入力はありません）。音は<b>想定合成音</b>で、土や樹の実音ではありません。生き物の主観を再現したものではありません。</p>
 <p>地表のすぐ上の小さな光は、いま土の湿りが変わっている所です。</p><p>蜂の匂いの道筋（花から樹への琥珀の粒）・鳥の旋回の高さ・土の湿りのセンサーの灯り（地表の水が多いほど読みが揺らぐ。差した位置の誤差は入れていない）も、同じ状態から作った<b>模式</b>です。雨で匂いが運ばれにくくなる・霧で見通しが縮む・濡れた地表で測定が揺らぐ、という向きだけを表し、量は創作です。時間は実際より大きく縮めた模式です。湿りの前線が根に届いた瞬間、地面・葉・霧・音が同じ拍で応えます。</p><h2>向きを決めるのに使った一次の出典</h2><ul><li>雨が土にしみこむ速さは、土が湿るほど落ちていく：Horton, R. E. (1933) The role of infiltration in the hydrologic cycle. <i>Trans. AGU</i> 14, 446–460</li><li>雨のはじまりに土の匂いが立つ：Bear, I. J. &amp; Thomas, R. G. (1964) Nature of argillaceous odour. <i>Nature</i> 201, 993–995（雨で花の匂いの道筋が乱れる向きは作品の設定）</li><li>霧が濃いほど見通しの距離が縮む：Koschmieder, H. (1924) Theorie der horizontalen Sichtweite. <i>Beitr. Phys. freien Atmos.</i> 12, 33–55</li><li>土の水分を電気的に測る方法：Topp, G. C., Davis, J. L. &amp; Annan, A. P. (1980) <i>Water Resources Research</i> 16(3), 574–582</li></ul><p>出典は向き（どちらへ変わるか）を決めるためだけに使い、量・速さ・時間はすべて作品の模式です。</p><h2>いまの場の記録（古い順）</h2><ul id="log"></ul><p>蜂（ミツバチ）とシジュウカラの姿は Qualia/sight の造形を使い、見やすさのため実寸より大きくしています。</p></div>
 <script type="importmap">{"imports":{"three":"./vendor/three.module.js","three/addons/utils/BufferGeometryUtils.js":"./vendor/BufferGeometryUtils.js"}}</script>
-<script type="module" src="./field.js?v=20261109r3"></script>
+<script type="module" src="./field.js?v=20261110r4"></script>
 </body></html>

diff --git a/x/27/index.html b/x/27/index.html
@@ -1,7 +1,7 @@
 <!doctype html>
 <html lang="ja"><head>
 <meta charset="utf-8"><meta name="viewport" content="width=device-width,initial-scale=1,viewport-fit=cover">
-<title>Qualia/leaf ── 一枚の葉から始まる入力の連なり</title>
+<title>Qualia/leaf ── 一枚の葉が、次のだれかへ届く</title>
 <meta name="description" content="氷川参道の欅の一枚の葉が、鳥・人・菌・記録計にとって別の出来事になり、互いの入力になって土へ還る。鳥の跳びから記録計までの光る線で、ひとつの動きが次の入力になる順をたどる。mitsulab">
 <meta name="robots" content="noai,noimageai"><meta name="tdm-reservation" content="1">
 <meta name="theme-color" content="#cfd5d2">
@@ -22,6 +22,7 @@
 #aw-ui .aw-fold>div{position:absolute;right:0;bottom:48px;box-sizing:border-box;width:min(420px,calc(100vw - 32px));max-height:calc(100dvh - 100px);overflow:auto;overflow-wrap:anywhere;touch-action:pan-y}
 </style></head><body>
 <div id="aw-ld"></div>
+<div id="qx-vig" aria-hidden="true"></div><style>#qx-vig{position:fixed;inset:0;z-index:2;pointer-events:none;background:radial-gradient(ellipse 62% 58% at 50% 50%,rgba(0,0,0,0) 40%,rgba(8,10,8,.72) 100%);transition:opacity 1.6s ease}#qx-vig.out{opacity:0}</style>
 <script src="loader_qualium.js" data-max="2500"></script>
 <a class="qx-home" href="/" aria-label="mitsulab のホームへ戻る">←</a>
 <div id="qx-intro" aria-hidden="true"><span>目の前の一枚の葉は、だれの何になる？</span></div>
@@ -31,5 +32,5 @@
 #qx-fail{position:fixed;inset:auto 0 30vh 0;z-index:2147483002;text-align:center;font:15px/1.8 "Hiragino Sans",sans-serif;color:#f2f5f8}#qx-fail button{min-height:44px;padding:8px 18px;margin-top:8px;border-radius:999px;border:1px solid #cfe;background:#0b1520;color:#eef5fb;font:inherit;cursor:pointer}</style>
 <script>/* 2026-11-09 読み込みに失敗しても止まらない：一度だけ読み直し、それでも駄目なら押して読み直せる */(function(){var K="qx-retry:"+location.pathname,shown=0;function fail(){if(window.__appMK&&window.__appMK.stage)return;try{if(!sessionStorage.getItem(K)){sessionStorage.setItem(K,"1");setTimeout(function(){location.reload()},500);return}}catch(e){}if(shown++)return;window.MLLoader&&MLLoader.done&&MLLoader.done(true);var d=document.createElement("div");d.id="qx-fail";d.innerHTML='通信が混み合っていて、風景を読みこめませんでした。<br><button type="button">もう一度ひらく</button>';d.querySelector("button").onclick=function(){location.reload()};document.body.appendChild(d)}addEventListener("error",function(e){if(e.target&&e.target.tagName==="SCRIPT"||/import|module|fetch/i.test(e.message||""))fail()},true);addEventListener("unhandledrejection",function(e){if(/import|module|fetch/i.test(String(e.reason&&e.reason.message||e.reason)))fail()});setTimeout(function(){if(!(window.__appMK&&window.__appMK.stage))fail()},15000);addEventListener("pageshow",function(){});})();</script>
 <style id="r3ttl">/* 2026-11-09 第3周：作品名は左上だけ・英字は出さない */.aw-mark i{display:none!important}</style><link rel="modulepreload" href="./kit/awai.js"><link rel="modulepreload" href="./kit/awai_props.js"><link rel="modulepreload" href="./kit/creatures_sight.js"><link rel="modulepreload" href="./kit/keyaki.js"><link rel="modulepreload" href="../../vendor/three/build/three.module.js">
-<script type="module" src="app.js?v=20261109r3"></script>
+<script type="module" src="app.js?v=20261110r4"></script>
 </body></html>
